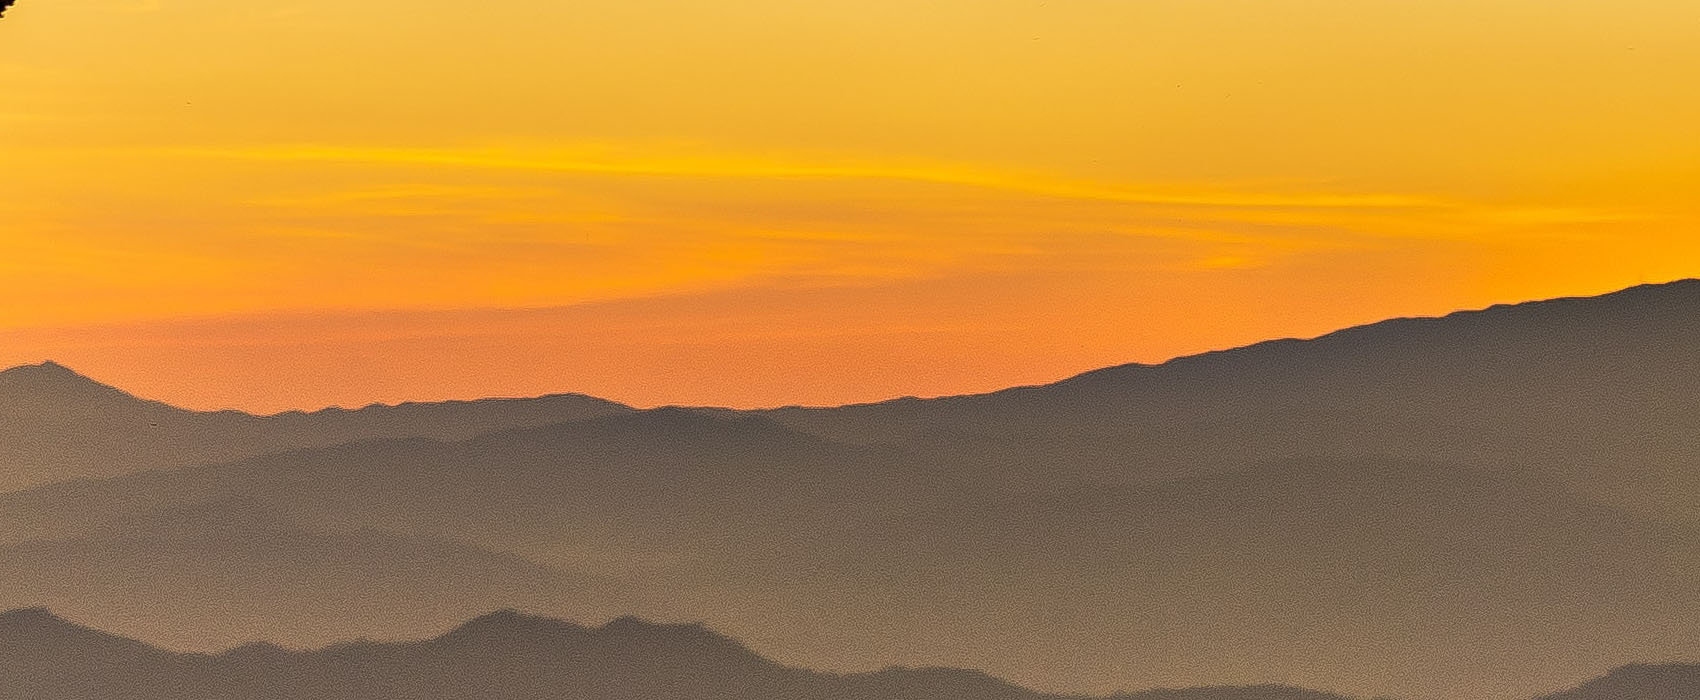
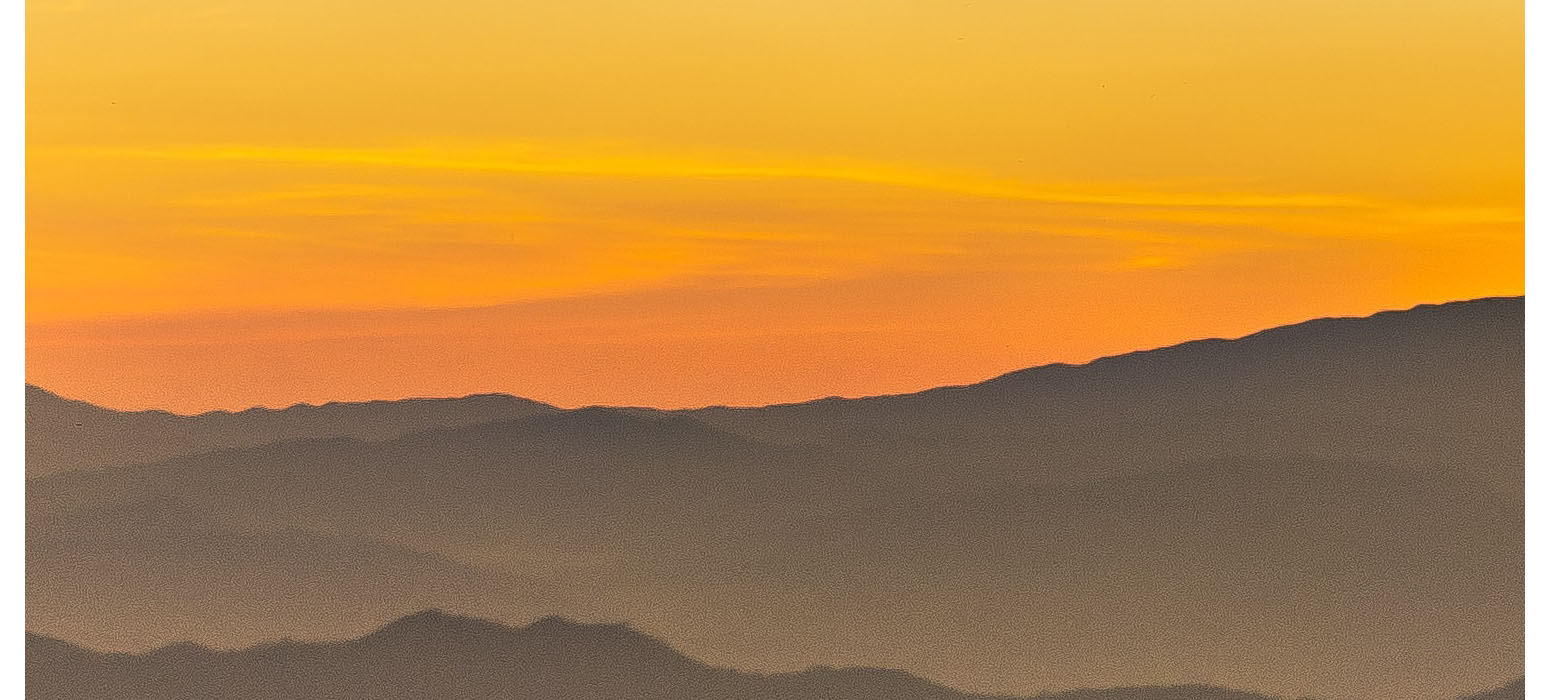
edits

diff --git a/gh-pages/schultz/bruno-schultz-4.html b/gh-pages/schultz/bruno-schultz-4.html
@@ -23,7 +23,7 @@
         </nav>
     
         
-        <img src="img/scenery1.jpg">
+        <img src="img/scenery2.jpg">
 
 <div class="dark">
 <head>
@@ -51,7 +51,7 @@
 </section>
 </div>
 
-<div class="light">
+
 <section>
 <h2 id="market"> The Market Square</h2>
 
@@ -66,7 +66,6 @@
 <p>Under our soft steps the squares of the paving stones slowly filed past—some the pale pink of human skin, some golden, some blue-gray, all flat, warm and velvety in the sun, like sundials, trodden to the point of obliteration, into blessed nothingness.</p>
 
 </section>
-</div>
 
 <div class= "street">
 <section>
@@ -78,7 +77,7 @@
 </section>
 </div>
 <footer>
-    <div class=".dark">
+    <div class="dark">
         <h2 id="contact"> Contact</h2>
     <ul class="connections">
         <!------------- EMAIL ------------------>

diff --git a/gh-pages/schultz/css/style.css b/gh-pages/schultz/css/style.css
@@ -29,8 +29,12 @@ head, p{
 
 /*-- Styling typography --*/
 
-h1, h2,h3 {
+h1,h3 {
     color:#e97430
+}
+
+h2 {
+    color: #521e00;
 }
 
 section, blockquote {
@@ -106,16 +110,13 @@ a:hover {
     background: #9b3a02;
 }
 
-.light {
-    background: #da5b2a;
-}
 
 .mornings {
     background: #ff9e20;
 }
 
 .street {
-    background:#ff9e20
+    background: #da5b2a
 }
 /*-- Styling nav --*/
 
